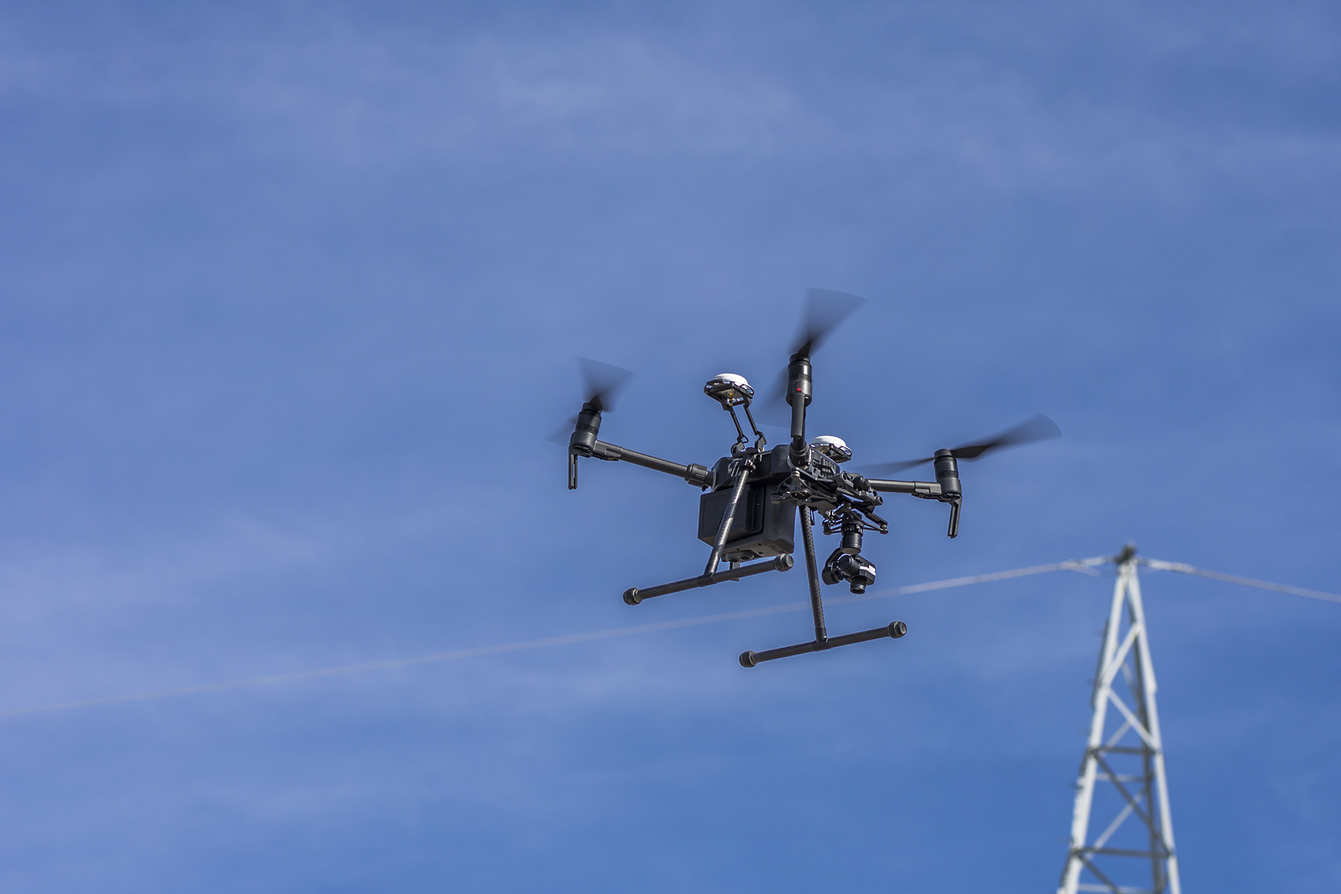
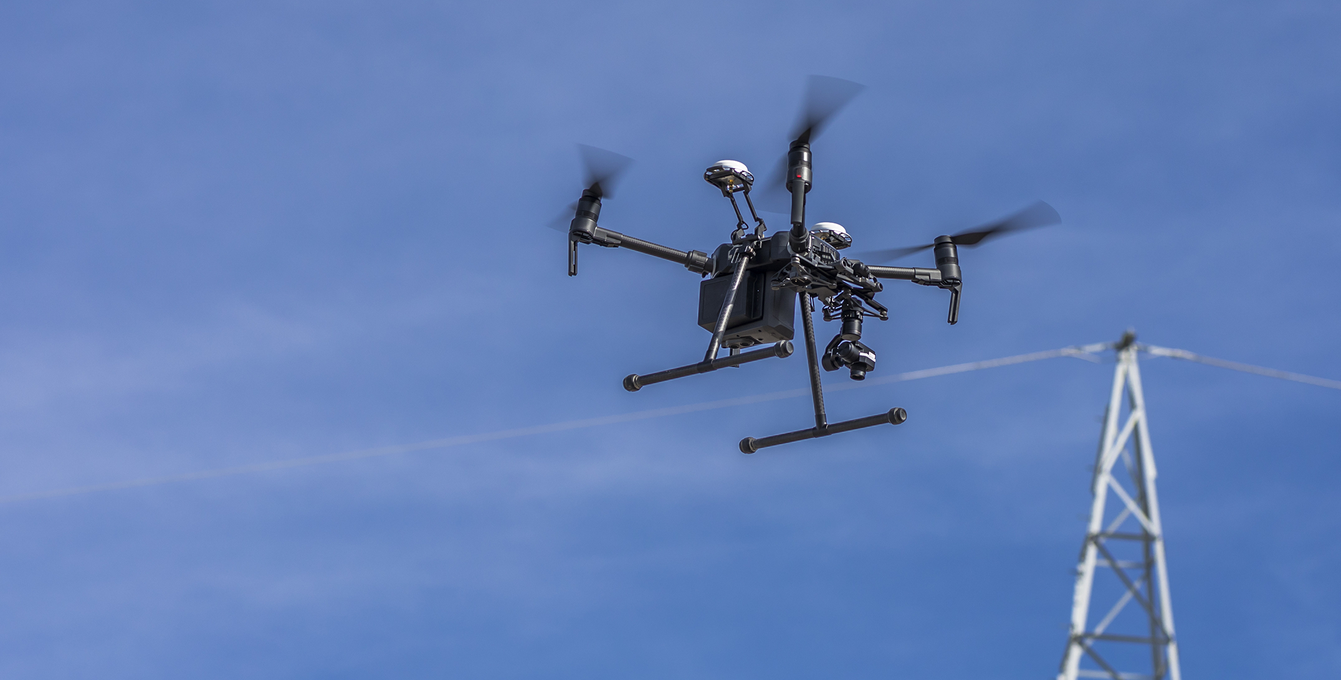
Update Hero
Resized hero images
Added linear gradient to darken images

diff --git a/assets/css/styles.css b/assets/css/styles.css
@@ -1,1 +1,1 @@
-body{font-family:'Open Sans', arial, sans-serif;color:#494d55;font-size:14px;-webkit-font-smoothing:antialiased;-moz-osx-font-smoothing:grayscale}p{margin-bottom:15px;line-height:1.5}a{color:#008bca;-webkit-transition:all 0.4s ease-in-out;-moz-transition:all 0.4s ease-in-out;-ms-transition:all 0.4s ease-in-out;-o-transition:all 0.4s ease-in-out}a:hover{text-decoration:underline;color:#007ab0}a:active{text-decoration:none}a:focus{text-decoration:none}div.modal-body{margin:15px}div.modal-body .form-group .row{margin:auto}.modal-content{margin:auto;width:602px}.btn,a.btn{-webkit-transition:all 0.4s ease-in-out;-moz-transition:all 0.4s ease-in-out;-ms-transition:all 0.4s ease-in-out;-o-transition:all 0.4s ease-in-out;font-weight:600;font-size:14px;line-height:1.5}.btn .fa,a.btn .fa{margin-right:5px}.btn-cta,a.btn-cta{font-weight:bold;font-size:16px;padding:10px 30px}.btn-primary{background:#009DE3;border:1px solid #009DE3;color:#fff}.btn-primary.active,.btn-primary.hover,.btn-primary:active,.btn-primary:focus,.btn-primary:hover{background:#008bca;color:#fff;border:1px solid #008bca}.btn-secondary{background:#f0ac2a;border:1px solid #f0ac2a;color:#fff}.btn-secondary.active,.btn-secondary.hover,.btn-secondary:active,.btn-secondary:focus,.btn-secondary:hover{background:#d9930f;color:#fff;border:1px solid #d9930f}.carousel-fade .carousel-inner .item{transition-property:opacity}.carousel-fade .carousel-inner .active.left,.carousel-fade .carousel-inner .active.right,.carousel-fade .carousel-inner .item{opacity:0}.carousel-fade .carousel-inner .active,.carousel-fade .carousel-inner .next.left,.carousel-fade .carousel-inner .prev.right{opacity:1}.carousel-fade .carousel-inner .active.left,.carousel-fade .carousel-inner .active.right,.carousel-fade .carousel-inner .next,.carousel-fade .carousel-inner .prev{left:0;transform:translate3d(0, 0, 0)}.carousel-fade .carousel-control{z-index:2}.carousel-indicators{bottom:30px;margin-bottom:0}.carousel-indicators li{background-color:rgba(255,255,255,0.4);border:none;width:11px;height:11px;margin:0 8px 0 0;-webkit-border-radius:50%;-moz-border-radius:50%;-ms-border-radius:50%;-o-border-radius:50%;border-radius:50%;-moz-background-clip:padding;-webkit-background-clip:padding-box;background-clip:padding-box}.carousel-indicators li.active{background-color:#009DE3;width:11px;height:11px;margin:0 8px 0 0}.header{position:fixed;width:100%;z-index:30;height:60px;-webkit-transition:none;-moz-transition:none;-ms-transition:none;-o-transition:none}.header.header-scrolled{background:#fff;-webkit-box-shadow:0 0 4px rgba(0,0,0,0.5);-moz-box-shadow:0 0 4px rgba(0,0,0,0.5);box-shadow:0 0 4px rgba(0,0,0,0.5)}.header.header-scrolled #logo{color:#009DE3}.header.header-scrolled a{color:#494d55}.header.header-scrolled .logo{color:#009DE3;padding-top:12px}.header.header-scrolled .logo .logo-icon-wrapper{background:#009DE3;width:40px;height:40px;-webkit-border-radius:50%;-moz-border-radius:50%;-ms-border-radius:50%;-o-border-radius:50%;border-radius:50%;-moz-background-clip:padding;-webkit-background-clip:padding-box;background-clip:padding-box;text-align:center}.header.header-scrolled .logo .logo-icon{width:20px;height:20px;margin-right:0}.header.header-scrolled .main-nav .nav .nav-link{color:#a2a6af}.header.header-scrolled .main-nav .nav .nav-link:hover{color:#9499a3}.header.header-scrolled .main-nav .nav .nav-link.active{color:#494d55;border-bottom:4px solid #009DE3}.header a{color:#fff;-webkit-transition:none;-moz-transition:none;-ms-transition:none;-o-transition:none}.header a:hover{text-decoration:none}.header .logo{margin:0;display:inline-block;float:left;font-size:24px;padding-top:15px}.header .logo .logo-icon-wrapper{margin-right:3px;position:relative;display:inline-block;top:-3px}.header .logo .logo-icon{width:30px;height:30px}.header .logo .highlight{font-weight:800}@media (max-width: 490px){.header .logo{font-size:20px}}.main-nav{margin-top:6px}.main-nav .navbar-toggler{margin-right:0;margin-top:0;background:none;position:absolute;padding:8px 10px;right:10px;top:10px;background:rgba(0,0,0,0.6)}.main-nav .navbar-toggler:focus{outline:none}.main-nav .navbar-toggler .icon-bar{display:block;background-color:#fff;height:3px;width:22px;-webkit-border-radius:1px;-moz-border-radius:1px;-ms-border-radius:1px;-o-border-radius:1px;border-radius:1px;-moz-background-clip:padding;-webkit-background-clip:padding-box;background-clip:padding-box}.main-nav .navbar-toggler .icon-bar+.icon-bar{margin-top:4px}.main-nav .navbar-toggler:hover .icon-bar{background-color:#fff}.main-nav .nav .nav-item{font-weight:normal;font-size:14px;margin-right:10px}.main-nav .nav .nav-item .nav-link{color:rgba(255,255,255,0.65);font-weight:700}.main-nav .nav .nav-item .nav-link.active{position:relative;background:none;color:#fff}.main-nav .nav .nav-item .nav-link:hover{color:#fff;background:none}.main-nav .nav .nav-item .nav-link:focus{outline:none;background:none}.main-nav .nav .nav-item .nav-link:active{outline:none;background:none}.main-nav .nav .nav-item:last-child{margin-right:0}.nav>li>a{padding-left:5px;padding-right:5px}.nav-link{padding:15px}.header-page{position:fixed;width:100%;z-index:30;height:60px;-webkit-transition:none;-moz-transition:none;-ms-transition:none;-o-transition:none;background:#fff;-webkit-box-shadow:0 0 4px rgba(0,0,0,0.5);-moz-box-shadow:0 0 4px rgba(0,0,0,0.5);box-shadow:0 0 4px rgba(0,0,0,0.5)}.header-page a{color:#494d55}.header-page .logo{padding-top:12px}.header-page #logo{color:#009DE3}.header-page .main-nav .nav .nav-link{color:#a2a6af}.header-page .main-nav .nav .nav-link:hover{color:#9499a3}.header-page .main-nav .nav .nav-link.active{color:#494d55;border-bottom:4px solid #009DE3}.header-page a{-webkit-transition:none;-moz-transition:none;-ms-transition:none;-o-transition:none}.header-page a:hover{text-decoration:none}.header-page .logo{margin:0;display:inline-block;float:left;font-size:26px;padding-top:15px}.header-page .logo .logo-icon-wrapper{margin-right:3px;position:relative;display:inline-block;top:-3px}.header-page .logo .logo-icon{width:30px;height:30px}.header-page .logo .highlight{font-weight:800}@media (max-width: 490px){.header-page .logo{font-size:20px}}.footer{background:#26282c;color:rgba(255,255,255,0.6);padding:15px 0}.footer a{color:#009DE3}.footer .fa-linkedin{color:#1E6FBA}.footer .fa-facebook{color:#3b5998}.footer .fa-instagram{color:#e4405f}.carousel .carousel-indicators li{background-color:#999;background-color:rgba(70,70,70,0.25)}.carousel .carousel-indicators .active{background-color:#009DE3}.carousel .carousel-control-next-icon{background-color:#999;background-color:rgba(70,70,70,0.25)}.carousel .carousel-control-prev-icon{background-color:#999;background-color:rgba(70,70,70,0.25)}.hero-section{min-height:600px;max-height:600px;background:#494d55;position:relative}.hero-section .figure-holder-wrapper{position:absolute;left:0;bottom:0;width:100%;overflow:hidden}.hero-section .figure-holder{position:relative;height:600px;width:100%}.hero-section .figure-holder .figure-image{position:absolute;bottom:0;right:15px;z-index:10}.hero-carousel{height:600px;color:#fff}.hero-carousel .carousel-inner .carousel-item{height:600px;background-position:center center}.hero-carousel .carousel-inner .item-1{background-image:url("../images/cdt/m210Ground.png");-webkit-background-size:cover;-moz-background-size:cover;-o-background-size:cover;background-size:cover}.hero-carousel .carousel-inner .item-2{background-image:url("../images/cdt/m210Line.png");-webkit-background-size:cover;-moz-background-size:cover;-o-background-size:cover;background-size:cover}.hero-carousel .carousel-inner .item-3{background-image:url("../images/cdt/m210AndWorkers.png");-webkit-background-size:cover;-moz-background-size:cover;-o-background-size:cover;background-size:cover}.hero-carousel .carousel-inner .item-4{background-image:url("../images/cdt/manAtDesk.png");-webkit-background-size:cover;-moz-background-size:cover;-o-background-size:cover;background-size:cover}.hero-carousel .carousel-inner .item-9{background:linear-gradient(rgba(0,0,0,0.5), rgba(0,0,0,0.7)),url("../images/cdt/utilitiesBanner.png");-webkit-background-size:cover;-moz-background-size:cover;-o-background-size:cover;background-size:cover;background-attachment:fixed;background-position:center}@media (max-width: 767.98px){.hero-carousel .carousel-inner .item-9{background:linear-gradient(rgba(0,0,0,0.5), rgba(0,0,0,0.7)),url("../images/cdt/utilitiesBanner.png");-webkit-background-size:auto 100%;-moz-background-size:auto 100%;-o-background-size:auto 100%;background-size:auto 100%;background-attachment:fixed;background-position:center}}.hero-carousel .carousel-inner .item-8{background:linear-gradient(rgba(0,0,0,0.5), rgba(0,0,0,0.5)),url("../images/cdt/m210Drone2.png");-webkit-background-size:cover;-moz-background-size:cover;-o-background-size:cover;background-size:cover;background-attachment:fixed;background-position:center}.hero-carousel .carousel-inner .item-7{background:linear-gradient(rgba(0,0,0,0.5), rgba(0,0,0,0.5)),url("../images/cdt/aerialRoofSingle.jpg");-webkit-background-size:cover;-moz-background-size:cover;-o-background-size:cover;background-size:cover;background-attachment:fixed;background-position:center}.hero-carousel .carousel-inner .heading{font-size:30px;line-height:1.4;font-weight:bold;margin-top:0;margin-bottom:15px}.hero-carousel .carousel-inner .intro{font-size:18px}.hero-carousel .carousel-inner .intro+.btn{margin-top:15px}.about-section{padding-top:90px}.about-section .section-title{margin:0;margin-bottom:15px;font-size:36px;font-weight:300}.about-section .intro{color:#a2a6af;font-size:16px;max-width:760px;margin:0 auto;margin-bottom:60px}.about-section .items-wrapper{margin-bottom:60px}.about-section .items-wrapper .figure-holder{min-height:170px;margin-bottom:15px;vertical-align:bottom}.about-section .items-wrapper .item-inner{padding:30px}.about-section .items-wrapper .item-title{color:#009DE3;font-size:18px;font-weight:bold;margin:0;margin-bottom:15px}.about-section .items-wrapper .item-desc{color:#616670}.technologies{margin-bottom:90px}.technologies .list-inline-item{margin-right:15px}.technologies .list-inline-item:last-child{margin-right:0}.testimonials{background:#009DE3}.testimonials-inner{padding:60px 30px;position:relative;max-width:800px}.testimonials-inner .profile-holder{position:absolute;left:30px;text-align:center}.testimonials-inner .profile-image{display:inline-block;margin:0 auto}.testimonials-inner .quote{background:rgba(0,0,0,0.2);color:#fff;margin-left:130px;border-left:none;margin-bottom:0;font-size:14px;min-height:100px;-webkit-border-radius:4px;-moz-border-radius:4px;-ms-border-radius:4px;-o-border-radius:4px;border-radius:4px;-moz-background-clip:padding;-webkit-background-clip:padding-box;background-clip:padding-box;position:relative;padding:15px}.testimonials-inner .quote:before{position:absolute;left:-10px;top:30px;content:"";width:0;height:0;border-top:10px solid transparent;border-bottom:10px solid transparent;border-right:10px solid rgba(0,0,0,0.2)}.process-section{background:#009DE3;-webkit-background-size:cover;-moz-background-size:cover;-o-background-size:cover;background-size:cover;padding-top:90px;padding-bottom:90px}.process-section .section-title{margin:0;margin-bottom:30px;font-size:36px;font-weight:300;color:#fff}.process-section .item{position:relative;max-width:800px;padding:10px;margin:0}.process-section .profile-holder{position:absolute;left:30px;text-align:center}.process-section .quote{background:rgba(0,0,0,0.2);color:#fff;margin-left:0;border-left:none;margin-bottom:0;font-size:14px;-webkit-border-radius:4px;-moz-border-radius:4px;-ms-border-radius:4px;-o-border-radius:4px;border-radius:4px;-moz-background-clip:padding;-webkit-background-clip:padding-box;background-clip:padding-box;position:relative;padding:30px}.process-section .quote-source{color:rgba(0,0,0,0.6)}.benefits-section{padding-top:90px;padding-bottom:90px}.benefits-section .section-title{margin:0;margin-bottom:15px;font-size:36px;font-weight:300}.benefits-section .intro{color:#a2a6af;font-size:16px;max-width:760px;margin:0 auto;margin-bottom:60px}.benefits-section .intro a{color:#797f8b}.benefits-section .intro a:hover{color:#494d55}.feature-nav{text-align:center;margin-bottom:30px}.feature-nav .nav-link{position:relative;background:none;padding:10px 0;color:#616670;font-size:16px}.feature-nav .nav-link:hover{background:none;color:#009DE3}.feature-nav .nav-link .svg-inline--fa{margin-right:15px;width:20px;font-size:30px;position:relative;top:-2px}.feature-nav .nav-link.active{color:#009DE3;background:none;font-weight:bold}.pricing-section{padding-top:90px;padding-bottom:90px}.pricing-section .section-title{margin:0 0 15px;font-size:36px;font-weight:300}.pricing-section .intro{color:#a2a6af;font-size:16px;max-width:760px;margin:0 auto 60px}.pricing-wrapper{max-width:900px;margin:0 auto}.pricing-wrapper .item{margin-bottom:30px}.pricing-wrapper .item-inner{color:#fff;padding:30px;-webkit-border-radius:8px;-moz-border-radius:8px;-ms-border-radius:8px;-o-border-radius:8px;border-radius:8px;-moz-background-clip:padding;-webkit-background-clip:padding-box;background-clip:padding-box;background:#009DE3;height:100%;position:relative}.pricing-wrapper .item-inner a{color:rgba(0,0,0,0.4)}.pricing-wrapper .item-1 .item-inner{background:#75c181}.pricing-wrapper .item-2 .item-inner{background:#009DE3}.pricing-wrapper .item-3 .item-inner{background:#e34600}.pricing-wrapper .item-heading{font-weight:800;font-size:18px;margin:0;min-height:60px}.pricing-wrapper .item-heading-desc{font-size:14px;font-weight:normal;display:inline-block;line-height:3}.pricing-wrapper .price-figure{font-size:46px;margin-bottom:15px}.pricing-wrapper .price-figure .currency{vertical-align:super;font-size:26px;-webkit-opacity:.6;-moz-opacity:.6;opacity:.6}.pricing-wrapper .price-figure .number{font-weight:500}.pricing-wrapper a.btn{background:rgba(0,0,0,0.2);color:#fff}.pricing-wrapper a.btn:hover{background:rgba(0,0,0,0.4)}.cdt-section{padding-top:90px;padding-bottom:60px;background:#f5f5f5}.cdt-section .section-title{margin:0 0 15px;font-size:36px;font-weight:300}.cdt-section .section-subtitle{margin:0 0 15px;font-size:28px;font-weight:300}.cdt-section .intro{color:#a2a6af;font-size:16px;max-width:760px;margin:0 auto 30px}.cdt-section .story{margin:0 auto 0px;max-width:100%}.cdt-section .profile-image{width:120px;height:120px;border-radius:50%}.cdt-section .cdt-wrapper{max-width:1200px;margin:0 auto 20px}.cdt-section .item-inner{padding:30px;background:#fff;-webkit-border-radius:8px;-moz-border-radius:8px;-ms-border-radius:8px;-o-border-radius:8px;border-radius:8px;-moz-background-clip:padding;-webkit-background-clip:padding-box;background-clip:padding-box;height:100%;position:relative}.cdt-section .img-inner{height:100%}.cdt-section .member-name{font-size:18px;font-weight:700;color:#009DE3}.cdt-section .member-title{font-size:16px;margin-top:0;margin-bottom:15px;color:#616670}.cdt-section .social{margin-bottom:30px}.cdt-section .social a{display:inline-block;width:32px;height:32px;font-size:18px;-webkit-border-radius:50%;-moz-border-radius:50%;-ms-border-radius:50%;-o-border-radius:50%;border-radius:50%;-moz-background-clip:padding;-webkit-background-clip:padding-box;background-clip:padding-box;background:#009DE3;padding-top:1px;color:#fff}.cdt-section .social a.google{background:#dd4b39}.cdt-section .social a.google:hover{background:#d73925}.cdt-section .social a.twitter{background:#55acee}.cdt-section .social a.twitter:hover{background:#3ea1ec}.cdt-section .social a.facebook{background:#3b5998}.cdt-section .social a.facebook:hover{background:#344e86}.cdt-section .social a.linkedin{background:#1E6FBA}.cdt-section .social a.linkedin:hover{background:#1a62a4}.cdt-section .social a.github{background:#444}.cdt-section .social a.github:hover{background:#373737}.cdt-section .social a.dribbble{background:#EC4D8B}.cdt-section .social a.dribbble:hover{background:#ea367c}.cdt-section .social a.medium{background:#1a1a1a}.cdt-section .social a.medium:hover{background:#000}.cdt-section .member-desc{color:#616670}.cdt-section .fill{display:flex;justify-content:center;align-items:center;overflow:hidden}.cdt-section .fill img{flex-shrink:0;min-width:100%;min-height:100%}.white-background{background-color:#f5f5f5;border-radius:4px;margin-top:10px;margin-bottom:10px}.contact-section{padding-top:90px;padding-bottom:90px;background:#494d55 url("../images/map.png") no-repeat center center;color:#fff}.contact-section .section-title{margin:0 0 15px;font-size:36px;font-weight:300;margin-bottom:30px}.contact-section .submit-button{display:flex;justify-content:center}.captcha{width:50%}.required{color:#e34600}.contact-content{max-width:600px;margin:0 auto 60px}#contactForm{margin:auto}#fs-frm button,#fs-frm fieldset,#fs-frm input,#fs-frm label,#fs-frm optgroup,#fs-frm select,#fs-frm textarea{font-family:inherit;font-size:100%;color:#494d55;border:none;border-radius:0;display:block;width:100%;padding:0;margin:0;-webkit-appearance:none;-moz-appearance:none}#fs-frm label,#fs-frm legend{font-size:1em;margin-bottom:0.5em;color:#494d55;text-align:left}#fs-frm button,#fs-frm input,#fs-frm select,#fs-frm textarea{border:1px solid rgba(0,0,0,0.2);background-color:rgba(255,255,255,0.9);padding:0.75em 1em;margin-bottom:1.5em}#fs-frm input:focus,#fs-frm select:focus,#fs-frm textarea:focus{background-color:white;outline-style:solid;outline-width:thin;outline-color:gray;outline-offset:-1px}#fs-frm [type="text"],#fs-frm [type="email"]{width:100%}#fs-frm [type="button"],#fs-frm [type="submit"],#fs-frm [type="reset"],#fs-frm button{width:auto;cursor:pointer;-webkit-appearance:button;-moz-appearance:button;appearance:button}#fs-frm [type="button"]:focus,#fs-frm [type="submit"]:focus,#fs-frm [type="reset"]:focus,#fs-frm button:focus{outline:none}#fs-frm [type="submit"],#fs-frm [type="reset"]{margin:auto;background:#009DE3;border:1px solid #009DE3;color:#fff}#fs-frm [type="submit"].active,#fs-frm [type="submit"].hover,#fs-frm [type="submit"]:active,#fs-frm [type="submit"]:focus,#fs-frm [type="submit"]:hover,#fs-frm [type="reset"].active,#fs-frm [type="reset"].hover,#fs-frm [type="reset"]:active,#fs-frm [type="reset"]:focus,#fs-frm [type="reset"]:hover{background:#008bca;color:#fff;border:1px solid #008bca}#fs-frm button,#fs-frm select{text-transform:none}#fs-frm fieldset.locale input[name="city"],#fs-frm fieldset.locale select[name="state"],#fs-frm fieldset.locale input[name="postal-code"]{display:inline}#fs-frm fieldset.locale input[name="city"]{width:52%}#fs-frm fieldset.locale select[name="state"],#fs-frm fieldset.locale input[name="postal-code"]{width:20%}#fs-frm fieldset.locale input[name="city"],#fs-frm fieldset.locale select[name="state"]{margin-right:3%}.white-text{color:#f5f5f5 !important}@media (max-width: 767.98px){.navbar-collapse{border-top:none;-webkit-box-shadow:none;-moz-box-shadow:none;box-shadow:none;width:100%;left:0;top:60px;position:absolute;background:rgba(49,52,58,0.9);z-index:40}.header.header-scrolled .main-nav .nav .nav-link.active{color:#009DE3;border:none}.main-nav .navbar-collapse .nav-item{margin-right:0}.main-nav .navbar-collapse .nav-item a{text-align:center}.hero-section .figure-image{width:300px}.hero-carousel .carousel-inner .heading{font-size:26px}.hero-carousel .carousel-inner .item-content-inner{padding-top:100px}.hero-section .figure-holder .figure-image{width:inherit;bottom:0;top:inherit;right:inherit;left:15px;max-width:320px}.technologies li{margin-bottom:15px}.cdt-wrapper .item{margin-bottom:30px}.cdt-wrapper .item:last-child{margin-bottom:0}.hero-carousel{height:660px}.hero-section .carousel-inner{height:660px}.hero-carousel .carousel-inner .item{height:660px}.testimonials-section .item .profile-image{width:60px;height:60px}.testimonials-section .item .quote{margin-left:85px;padding:15px}.testimonials-section .item.item-reversed .quote{margin-right:85px}}@media (min-width: 768px){.feature-nav{text-align:left;padding-left:30px}.hero-section .figure-holder .figure-image{width:360px;bottom:inherit;top:130px}.hero-carousel .carousel-inner .item-content-inner{max-width:300px;padding-top:120px}}@media (min-width: 992px){.main-nav .nav .nav-item{margin-right:25px}.feature-nav{margin-top:30px;padding-left:15px}.hero-section .figure-holder .figure-image{width:420px;bottom:inherit;top:130px}.hero-carousel .carousel-inner .item-content-inner{max-width:500px}}@media (min-width: 1200px){.hero-section .figure-holder .figure-image{width:570px;bottom:0;top:inherit}}.callout-dark{padding-top:50px;padding-bottom:50px;color:#f5f5f5;background-color:#494d55}.callout-dark h1,.callout-dark h2,.callout-dark h3,.callout-dark h4{font-weight:300;line-height:1.4}.callout-dark p{color:#a2a6af;font-size:17px}.callout-dark a{color:#f5f5f5}.callout-dark a:hover{cursor:pointer;text-decoration:none}.callout-dark:hover{background-color:#26282c;cursor:pointer;-webkit-transition:all 0.4s ease-in-out;-moz-transition:all 0.4s ease-in-out;-ms-transition:all 0.4s ease-in-out;-o-transition:all 0.4s ease-in-out}.callout-light{padding-top:50px;padding-bottom:50px;color:#f5f5f5;background-color:#009DE3}.callout-light h1,.callout-light h2,.callout-light h3,.callout-light h4{font-weight:300;line-height:1.4}.callout-light p{color:#a2a6af;font-size:17px}.callout-light a{color:#f5f5f5}.callout-light a:hover{cursor:pointer;text-decoration:none}.callout-light:hover{background-color:#006897;cursor:pointer;-webkit-transition:all 0.4s ease-in-out;-moz-transition:all 0.4s ease-in-out;-ms-transition:all 0.4s ease-in-out;-o-transition:all 0.4s ease-in-out}.iframe{overflow-y:hidden}
+body{font-family:'Open Sans', arial, sans-serif;color:#494d55;font-size:14px;-webkit-font-smoothing:antialiased;-moz-osx-font-smoothing:grayscale}p{margin-bottom:15px;line-height:1.5}a{color:#008bca;-webkit-transition:all 0.4s ease-in-out;-moz-transition:all 0.4s ease-in-out;-ms-transition:all 0.4s ease-in-out;-o-transition:all 0.4s ease-in-out}a:hover{text-decoration:underline;color:#007ab0}a:active{text-decoration:none}a:focus{text-decoration:none}div.modal-body{margin:15px}div.modal-body .form-group .row{margin:auto}.modal-content{margin:auto;width:602px}.btn,a.btn{-webkit-transition:all 0.4s ease-in-out;-moz-transition:all 0.4s ease-in-out;-ms-transition:all 0.4s ease-in-out;-o-transition:all 0.4s ease-in-out;font-weight:600;font-size:14px;line-height:1.5}.btn .fa,a.btn .fa{margin-right:5px}.btn-cta,a.btn-cta{font-weight:bold;font-size:16px;padding:10px 30px}.btn-primary{background:#009DE3;border:1px solid #009DE3;color:#fff}.btn-primary.active,.btn-primary.hover,.btn-primary:active,.btn-primary:focus,.btn-primary:hover{background:#008bca;color:#fff;border:1px solid #008bca}.btn-secondary{background:#f0ac2a;border:1px solid #f0ac2a;color:#fff}.btn-secondary.active,.btn-secondary.hover,.btn-secondary:active,.btn-secondary:focus,.btn-secondary:hover{background:#d9930f;color:#fff;border:1px solid #d9930f}.carousel-fade .carousel-inner .item{transition-property:opacity}.carousel-fade .carousel-inner .active.left,.carousel-fade .carousel-inner .active.right,.carousel-fade .carousel-inner .item{opacity:0}.carousel-fade .carousel-inner .active,.carousel-fade .carousel-inner .next.left,.carousel-fade .carousel-inner .prev.right{opacity:1}.carousel-fade .carousel-inner .active.left,.carousel-fade .carousel-inner .active.right,.carousel-fade .carousel-inner .next,.carousel-fade .carousel-inner .prev{left:0;transform:translate3d(0, 0, 0)}.carousel-fade .carousel-control{z-index:2}.carousel-indicators{bottom:30px;margin-bottom:0}.carousel-indicators li{background-color:rgba(255,255,255,0.4);border:none;width:11px;height:11px;margin:0 8px 0 0;-webkit-border-radius:50%;-moz-border-radius:50%;-ms-border-radius:50%;-o-border-radius:50%;border-radius:50%;-moz-background-clip:padding;-webkit-background-clip:padding-box;background-clip:padding-box}.carousel-indicators li.active{background-color:#009DE3;width:11px;height:11px;margin:0 8px 0 0}.header{position:fixed;width:100%;z-index:30;height:60px;-webkit-transition:none;-moz-transition:none;-ms-transition:none;-o-transition:none}.header.header-scrolled{background:#fff;-webkit-box-shadow:0 0 4px rgba(0,0,0,0.5);-moz-box-shadow:0 0 4px rgba(0,0,0,0.5);box-shadow:0 0 4px rgba(0,0,0,0.5)}.header.header-scrolled #logo{color:#009DE3}.header.header-scrolled a{color:#494d55}.header.header-scrolled .logo{color:#009DE3;padding-top:12px}.header.header-scrolled .logo .logo-icon-wrapper{background:#009DE3;width:40px;height:40px;-webkit-border-radius:50%;-moz-border-radius:50%;-ms-border-radius:50%;-o-border-radius:50%;border-radius:50%;-moz-background-clip:padding;-webkit-background-clip:padding-box;background-clip:padding-box;text-align:center}.header.header-scrolled .logo .logo-icon{width:20px;height:20px;margin-right:0}.header.header-scrolled .main-nav .nav .nav-link{color:#a2a6af}.header.header-scrolled .main-nav .nav .nav-link:hover{color:#9499a3}.header.header-scrolled .main-nav .nav .nav-link.active{color:#494d55;border-bottom:4px solid #009DE3}.header a{color:#fff;-webkit-transition:none;-moz-transition:none;-ms-transition:none;-o-transition:none}.header a:hover{text-decoration:none}.header .logo{margin:0;display:inline-block;float:left;font-size:24px;padding-top:15px}.header .logo .logo-icon-wrapper{margin-right:3px;position:relative;display:inline-block;top:-3px}.header .logo .logo-icon{width:30px;height:30px}.header .logo .highlight{font-weight:800}@media (max-width: 490px){.header .logo{font-size:20px}}.main-nav{margin-top:6px}.main-nav .navbar-toggler{margin-right:0;margin-top:0;background:none;position:absolute;padding:8px 10px;right:10px;top:10px;background:rgba(0,0,0,0.6)}.main-nav .navbar-toggler:focus{outline:none}.main-nav .navbar-toggler .icon-bar{display:block;background-color:#fff;height:3px;width:22px;-webkit-border-radius:1px;-moz-border-radius:1px;-ms-border-radius:1px;-o-border-radius:1px;border-radius:1px;-moz-background-clip:padding;-webkit-background-clip:padding-box;background-clip:padding-box}.main-nav .navbar-toggler .icon-bar+.icon-bar{margin-top:4px}.main-nav .navbar-toggler:hover .icon-bar{background-color:#fff}.main-nav .nav .nav-item{font-weight:normal;font-size:14px;margin-right:10px}.main-nav .nav .nav-item .nav-link{color:rgba(255,255,255,0.65);font-weight:700}.main-nav .nav .nav-item .nav-link.active{position:relative;background:none;color:#fff}.main-nav .nav .nav-item .nav-link:hover{color:#fff;background:none}.main-nav .nav .nav-item .nav-link:focus{outline:none;background:none}.main-nav .nav .nav-item .nav-link:active{outline:none;background:none}.main-nav .nav .nav-item:last-child{margin-right:0}.nav>li>a{padding-left:5px;padding-right:5px}.nav-link{padding:15px}.header-page{position:fixed;width:100%;z-index:30;height:60px;-webkit-transition:none;-moz-transition:none;-ms-transition:none;-o-transition:none;background:#fff;-webkit-box-shadow:0 0 4px rgba(0,0,0,0.5);-moz-box-shadow:0 0 4px rgba(0,0,0,0.5);box-shadow:0 0 4px rgba(0,0,0,0.5)}.header-page a{color:#494d55}.header-page .logo{padding-top:12px}.header-page #logo{color:#009DE3}.header-page .main-nav .nav .nav-link{color:#a2a6af}.header-page .main-nav .nav .nav-link:hover{color:#9499a3}.header-page .main-nav .nav .nav-link.active{color:#494d55;border-bottom:4px solid #009DE3}.header-page a{-webkit-transition:none;-moz-transition:none;-ms-transition:none;-o-transition:none}.header-page a:hover{text-decoration:none}.header-page .logo{margin:0;display:inline-block;float:left;font-size:26px;padding-top:15px}.header-page .logo .logo-icon-wrapper{margin-right:3px;position:relative;display:inline-block;top:-3px}.header-page .logo .logo-icon{width:30px;height:30px}.header-page .logo .highlight{font-weight:800}@media (max-width: 490px){.header-page .logo{font-size:20px}}.footer{background:#26282c;color:rgba(255,255,255,0.6);padding:15px 0}.footer a{color:#009DE3}.footer .fa-linkedin{color:#1E6FBA}.footer .fa-facebook{color:#3b5998}.footer .fa-instagram{color:#e4405f}.carousel .carousel-indicators li{background-color:#999;background-color:rgba(70,70,70,0.25)}.carousel .carousel-indicators .active{background-color:#009DE3}.carousel .carousel-control-next-icon{background-color:#999;background-color:rgba(70,70,70,0.25)}.carousel .carousel-control-prev-icon{background-color:#999;background-color:rgba(70,70,70,0.25)}.hero-section{min-height:600px;max-height:600px;background:#494d55;position:relative}.hero-section .figure-holder-wrapper{position:absolute;left:0;bottom:0;width:100%;overflow:hidden}.hero-section .figure-holder{position:relative;height:600px;width:100%}.hero-section .figure-holder .figure-image{position:absolute;bottom:0;right:15px;z-index:10}.hero-carousel{height:600px;color:#fff}.hero-carousel .carousel-inner .carousel-item{height:600px;background-position:center center}.hero-carousel .carousel-inner .item-1{background:linear-gradient(rgba(0,0,0,0.5), rgba(0,0,0,0.5)),url("../images/cdt/m210Ground.png");-webkit-background-size:cover;-moz-background-size:cover;-o-background-size:cover;background-size:cover}.hero-carousel .carousel-inner .item-2{background:linear-gradient(rgba(0,0,0,0.5), rgba(0,0,0,0.5)),url("../images/cdt/m210Line.png");-webkit-background-size:cover;-moz-background-size:cover;-o-background-size:cover;background-size:cover}.hero-carousel .carousel-inner .item-3{background:linear-gradient(rgba(0,0,0,0.5), rgba(0,0,0,0.5)),url("../images/cdt/m210AndWorkers.png");-webkit-background-size:cover;-moz-background-size:cover;-o-background-size:cover;background-size:cover}.hero-carousel .carousel-inner .item-4{background-image:url("../images/cdt/manAtDesk.png");-webkit-background-size:cover;-moz-background-size:cover;-o-background-size:cover;background-size:cover}.hero-carousel .carousel-inner .item-9{background:linear-gradient(rgba(0,0,0,0.5), rgba(0,0,0,0.7)),url("../images/cdt/utilitiesBanner.png");-webkit-background-size:cover;-moz-background-size:cover;-o-background-size:cover;background-size:cover;background-attachment:fixed;background-position:center}@media (max-width: 767.98px){.hero-carousel .carousel-inner .item-9{background:linear-gradient(rgba(0,0,0,0.5), rgba(0,0,0,0.7)),url("../images/cdt/utilitiesBanner.png");-webkit-background-size:auto 100%;-moz-background-size:auto 100%;-o-background-size:auto 100%;background-size:auto 100%;background-attachment:fixed;background-position:center}}.hero-carousel .carousel-inner .item-8{background:linear-gradient(rgba(0,0,0,0.5), rgba(0,0,0,0.5)),url("../images/cdt/m210Drone2.png");-webkit-background-size:cover;-moz-background-size:cover;-o-background-size:cover;background-size:cover;background-attachment:fixed;background-position:center}.hero-carousel .carousel-inner .item-7{background:linear-gradient(rgba(0,0,0,0.5), rgba(0,0,0,0.5)),url("../images/cdt/aerialRoofSingle.jpg");-webkit-background-size:cover;-moz-background-size:cover;-o-background-size:cover;background-size:cover;background-attachment:fixed;background-position:center}.hero-carousel .carousel-inner .heading{font-size:30px;line-height:1.4;font-weight:bold;margin-top:0;margin-bottom:15px}.hero-carousel .carousel-inner .intro{font-size:18px}.hero-carousel .carousel-inner .intro+.btn{margin-top:15px}.about-section{padding-top:90px}.about-section .section-title{margin:0;margin-bottom:15px;font-size:36px;font-weight:300}.about-section .intro{color:#a2a6af;font-size:16px;max-width:760px;margin:0 auto;margin-bottom:60px}.about-section .items-wrapper{margin-bottom:60px}.about-section .items-wrapper .figure-holder{min-height:170px;margin-bottom:15px;vertical-align:bottom}.about-section .items-wrapper .item-inner{padding:30px}.about-section .items-wrapper .item-title{color:#009DE3;font-size:18px;font-weight:bold;margin:0;margin-bottom:15px}.about-section .items-wrapper .item-desc{color:#616670}.technologies{margin-bottom:90px}.technologies .list-inline-item{margin-right:15px}.technologies .list-inline-item:last-child{margin-right:0}.testimonials{background:#009DE3}.testimonials-inner{padding:60px 30px;position:relative;max-width:800px}.testimonials-inner .profile-holder{position:absolute;left:30px;text-align:center}.testimonials-inner .profile-image{display:inline-block;margin:0 auto}.testimonials-inner .quote{background:rgba(0,0,0,0.2);color:#fff;margin-left:130px;border-left:none;margin-bottom:0;font-size:14px;min-height:100px;-webkit-border-radius:4px;-moz-border-radius:4px;-ms-border-radius:4px;-o-border-radius:4px;border-radius:4px;-moz-background-clip:padding;-webkit-background-clip:padding-box;background-clip:padding-box;position:relative;padding:15px}.testimonials-inner .quote:before{position:absolute;left:-10px;top:30px;content:"";width:0;height:0;border-top:10px solid transparent;border-bottom:10px solid transparent;border-right:10px solid rgba(0,0,0,0.2)}.process-section{background:#009DE3;-webkit-background-size:cover;-moz-background-size:cover;-o-background-size:cover;background-size:cover;padding-top:90px;padding-bottom:90px}.process-section .section-title{margin:0;margin-bottom:30px;font-size:36px;font-weight:300;color:#fff}.process-section .item{position:relative;max-width:800px;padding:10px;margin:0}.process-section .profile-holder{position:absolute;left:30px;text-align:center}.process-section .quote{background:rgba(0,0,0,0.2);color:#fff;margin-left:0;border-left:none;margin-bottom:0;font-size:14px;-webkit-border-radius:4px;-moz-border-radius:4px;-ms-border-radius:4px;-o-border-radius:4px;border-radius:4px;-moz-background-clip:padding;-webkit-background-clip:padding-box;background-clip:padding-box;position:relative;padding:30px}.process-section .quote-source{color:rgba(0,0,0,0.6)}.benefits-section{padding-top:90px;padding-bottom:90px}.benefits-section .section-title{margin:0;margin-bottom:15px;font-size:36px;font-weight:300}.benefits-section .intro{color:#a2a6af;font-size:16px;max-width:760px;margin:0 auto;margin-bottom:60px}.benefits-section .intro a{color:#797f8b}.benefits-section .intro a:hover{color:#494d55}.feature-nav{text-align:center;margin-bottom:30px}.feature-nav .nav-link{position:relative;background:none;padding:10px 0;color:#616670;font-size:16px}.feature-nav .nav-link:hover{background:none;color:#009DE3}.feature-nav .nav-link .svg-inline--fa{margin-right:15px;width:20px;font-size:30px;position:relative;top:-2px}.feature-nav .nav-link.active{color:#009DE3;background:none;font-weight:bold}.pricing-section{padding-top:90px;padding-bottom:90px}.pricing-section .section-title{margin:0 0 15px;font-size:36px;font-weight:300}.pricing-section .intro{color:#a2a6af;font-size:16px;max-width:760px;margin:0 auto 60px}.pricing-wrapper{max-width:900px;margin:0 auto}.pricing-wrapper .item{margin-bottom:30px}.pricing-wrapper .item-inner{color:#fff;padding:30px;-webkit-border-radius:8px;-moz-border-radius:8px;-ms-border-radius:8px;-o-border-radius:8px;border-radius:8px;-moz-background-clip:padding;-webkit-background-clip:padding-box;background-clip:padding-box;background:#009DE3;height:100%;position:relative}.pricing-wrapper .item-inner a{color:rgba(0,0,0,0.4)}.pricing-wrapper .item-1 .item-inner{background:#75c181}.pricing-wrapper .item-2 .item-inner{background:#009DE3}.pricing-wrapper .item-3 .item-inner{background:#e34600}.pricing-wrapper .item-heading{font-weight:800;font-size:18px;margin:0;min-height:60px}.pricing-wrapper .item-heading-desc{font-size:14px;font-weight:normal;display:inline-block;line-height:3}.pricing-wrapper .price-figure{font-size:46px;margin-bottom:15px}.pricing-wrapper .price-figure .currency{vertical-align:super;font-size:26px;-webkit-opacity:.6;-moz-opacity:.6;opacity:.6}.pricing-wrapper .price-figure .number{font-weight:500}.pricing-wrapper a.btn{background:rgba(0,0,0,0.2);color:#fff}.pricing-wrapper a.btn:hover{background:rgba(0,0,0,0.4)}.cdt-section{padding-top:90px;padding-bottom:60px;background:#f5f5f5}.cdt-section .section-title{margin:0 0 15px;font-size:36px;font-weight:300}.cdt-section .section-subtitle{margin:0 0 15px;font-size:28px;font-weight:300}.cdt-section .intro{color:#a2a6af;font-size:16px;max-width:760px;margin:0 auto 30px}.cdt-section .story{margin:0 auto 0px;max-width:100%}.cdt-section .profile-image{width:120px;height:120px;border-radius:50%}.cdt-section .cdt-wrapper{max-width:1200px;margin:0 auto 20px}.cdt-section .item-inner{padding:30px;background:#fff;-webkit-border-radius:8px;-moz-border-radius:8px;-ms-border-radius:8px;-o-border-radius:8px;border-radius:8px;-moz-background-clip:padding;-webkit-background-clip:padding-box;background-clip:padding-box;height:100%;position:relative}.cdt-section .img-inner{height:100%}.cdt-section .member-name{font-size:18px;font-weight:700;color:#009DE3}.cdt-section .member-title{font-size:16px;margin-top:0;margin-bottom:15px;color:#616670}.cdt-section .social{margin-bottom:30px}.cdt-section .social a{display:inline-block;width:32px;height:32px;font-size:18px;-webkit-border-radius:50%;-moz-border-radius:50%;-ms-border-radius:50%;-o-border-radius:50%;border-radius:50%;-moz-background-clip:padding;-webkit-background-clip:padding-box;background-clip:padding-box;background:#009DE3;padding-top:1px;color:#fff}.cdt-section .social a.google{background:#dd4b39}.cdt-section .social a.google:hover{background:#d73925}.cdt-section .social a.twitter{background:#55acee}.cdt-section .social a.twitter:hover{background:#3ea1ec}.cdt-section .social a.facebook{background:#3b5998}.cdt-section .social a.facebook:hover{background:#344e86}.cdt-section .social a.linkedin{background:#1E6FBA}.cdt-section .social a.linkedin:hover{background:#1a62a4}.cdt-section .social a.github{background:#444}.cdt-section .social a.github:hover{background:#373737}.cdt-section .social a.dribbble{background:#EC4D8B}.cdt-section .social a.dribbble:hover{background:#ea367c}.cdt-section .social a.medium{background:#1a1a1a}.cdt-section .social a.medium:hover{background:#000}.cdt-section .member-desc{color:#616670}.cdt-section .fill{display:flex;justify-content:center;align-items:center;overflow:hidden}.cdt-section .fill img{flex-shrink:0;min-width:100%;min-height:100%}.white-background{background-color:#f5f5f5;border-radius:4px;margin-top:10px;margin-bottom:10px}.contact-section{padding-top:90px;padding-bottom:90px;background:#494d55 url("../images/map.png") no-repeat center center;color:#fff}.contact-section .section-title{margin:0 0 15px;font-size:36px;font-weight:300;margin-bottom:30px}.contact-section .submit-button{display:flex;justify-content:center}.captcha{width:50%}.required{color:#e34600}.contact-content{max-width:600px;margin:0 auto 60px}#contactForm{margin:auto}#fs-frm button,#fs-frm fieldset,#fs-frm input,#fs-frm label,#fs-frm optgroup,#fs-frm select,#fs-frm textarea{font-family:inherit;font-size:100%;color:#494d55;border:none;border-radius:0;display:block;width:100%;padding:0;margin:0;-webkit-appearance:none;-moz-appearance:none}#fs-frm label,#fs-frm legend{font-size:1em;margin-bottom:0.5em;color:#494d55;text-align:left}#fs-frm button,#fs-frm input,#fs-frm select,#fs-frm textarea{border:1px solid rgba(0,0,0,0.2);background-color:rgba(255,255,255,0.9);padding:0.75em 1em;margin-bottom:1.5em}#fs-frm input:focus,#fs-frm select:focus,#fs-frm textarea:focus{background-color:white;outline-style:solid;outline-width:thin;outline-color:gray;outline-offset:-1px}#fs-frm [type="text"],#fs-frm [type="email"]{width:100%}#fs-frm [type="button"],#fs-frm [type="submit"],#fs-frm [type="reset"],#fs-frm button{width:auto;cursor:pointer;-webkit-appearance:button;-moz-appearance:button;appearance:button}#fs-frm [type="button"]:focus,#fs-frm [type="submit"]:focus,#fs-frm [type="reset"]:focus,#fs-frm button:focus{outline:none}#fs-frm [type="submit"],#fs-frm [type="reset"]{margin:auto;background:#009DE3;border:1px solid #009DE3;color:#fff}#fs-frm [type="submit"].active,#fs-frm [type="submit"].hover,#fs-frm [type="submit"]:active,#fs-frm [type="submit"]:focus,#fs-frm [type="submit"]:hover,#fs-frm [type="reset"].active,#fs-frm [type="reset"].hover,#fs-frm [type="reset"]:active,#fs-frm [type="reset"]:focus,#fs-frm [type="reset"]:hover{background:#008bca;color:#fff;border:1px solid #008bca}#fs-frm button,#fs-frm select{text-transform:none}#fs-frm fieldset.locale input[name="city"],#fs-frm fieldset.locale select[name="state"],#fs-frm fieldset.locale input[name="postal-code"]{display:inline}#fs-frm fieldset.locale input[name="city"]{width:52%}#fs-frm fieldset.locale select[name="state"],#fs-frm fieldset.locale input[name="postal-code"]{width:20%}#fs-frm fieldset.locale input[name="city"],#fs-frm fieldset.locale select[name="state"]{margin-right:3%}.white-text{color:#f5f5f5 !important}@media (max-width: 767.98px){.navbar-collapse{border-top:none;-webkit-box-shadow:none;-moz-box-shadow:none;box-shadow:none;width:100%;left:0;top:60px;position:absolute;background:rgba(49,52,58,0.9);z-index:40}.header.header-scrolled .main-nav .nav .nav-link.active{color:#009DE3;border:none}.main-nav .navbar-collapse .nav-item{margin-right:0}.main-nav .navbar-collapse .nav-item a{text-align:center}.hero-section .figure-image{width:300px}.hero-carousel .carousel-inner .heading{font-size:26px}.hero-carousel .carousel-inner .item-content-inner{padding-top:100px}.hero-section .figure-holder .figure-image{width:inherit;bottom:0;top:inherit;right:inherit;left:15px;max-width:320px}.technologies li{margin-bottom:15px}.cdt-wrapper .item{margin-bottom:30px}.cdt-wrapper .item:last-child{margin-bottom:0}.hero-carousel{height:660px}.hero-section .carousel-inner{height:660px}.hero-carousel .carousel-inner .item{height:660px}.testimonials-section .item .profile-image{width:60px;height:60px}.testimonials-section .item .quote{margin-left:85px;padding:15px}.testimonials-section .item.item-reversed .quote{margin-right:85px}}@media (min-width: 768px){.feature-nav{text-align:left;padding-left:30px}.hero-section .figure-holder .figure-image{width:360px;bottom:inherit;top:130px}.hero-carousel .carousel-inner .item-content-inner{max-width:300px;padding-top:120px}}@media (min-width: 992px){.main-nav .nav .nav-item{margin-right:25px}.feature-nav{margin-top:30px;padding-left:15px}.hero-section .figure-holder .figure-image{width:420px;bottom:inherit;top:130px}.hero-carousel .carousel-inner .item-content-inner{max-width:500px}}@media (min-width: 1200px){.hero-section .figure-holder .figure-image{width:570px;bottom:0;top:inherit}}.callout-dark{padding-top:50px;padding-bottom:50px;color:#f5f5f5;background-color:#494d55}.callout-dark h1,.callout-dark h2,.callout-dark h3,.callout-dark h4{font-weight:300;line-height:1.4}.callout-dark p{color:#a2a6af;font-size:17px}.callout-dark a{color:#f5f5f5}.callout-dark a:hover{cursor:pointer;text-decoration:none}.callout-dark:hover{background-color:#26282c;cursor:pointer;-webkit-transition:all 0.4s ease-in-out;-moz-transition:all 0.4s ease-in-out;-ms-transition:all 0.4s ease-in-out;-o-transition:all 0.4s ease-in-out}.callout-light{padding-top:50px;padding-bottom:50px;color:#f5f5f5;background-color:#009DE3}.callout-light h1,.callout-light h2,.callout-light h3,.callout-light h4{font-weight:300;line-height:1.4}.callout-light p{color:#a2a6af;font-size:17px}.callout-light a{color:#f5f5f5}.callout-light a:hover{cursor:pointer;text-decoration:none}.callout-light:hover{background-color:#006897;cursor:pointer;-webkit-transition:all 0.4s ease-in-out;-moz-transition:all 0.4s ease-in-out;-ms-transition:all 0.4s ease-in-out;-o-transition:all 0.4s ease-in-out}.iframe{overflow-y:hidden}

diff --git a/assets/scss/_hero.scss b/assets/scss/_hero.scss
@@ -36,15 +36,15 @@
             background-position: center center;
         }
         .item-1 {
-            background-image: url('../images/cdt/m210Ground.png');
+            background: linear-gradient( rgba(0, 0, 0, 0.5), rgba(0, 0, 0, 0.5) ), url('../images/cdt/m210Ground.png');
             @include background-size(cover);
         }
         .item-2 {
-            background-image: url('../images/cdt/m210Line.png');
+            background: linear-gradient( rgba(0, 0, 0, 0.5), rgba(0, 0, 0, 0.5) ), url('../images/cdt/m210Line.png');
             @include background-size(cover);
         }
         .item-3 {
-            background-image: url('../images/cdt/m210AndWorkers.png');
+            background: linear-gradient( rgba(0, 0, 0, 0.5), rgba(0, 0, 0, 0.5) ), url('../images/cdt/m210AndWorkers.png');
             @include background-size(cover);
         }
         .item-4 {
